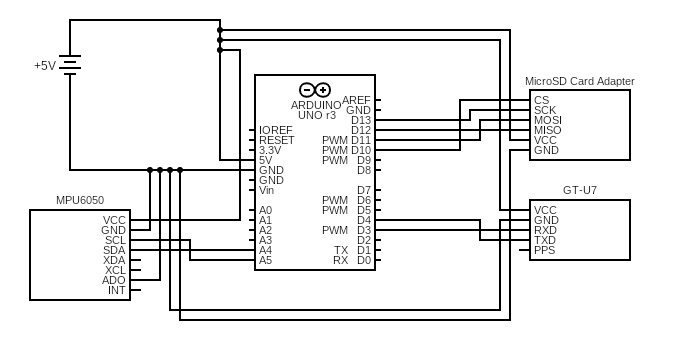
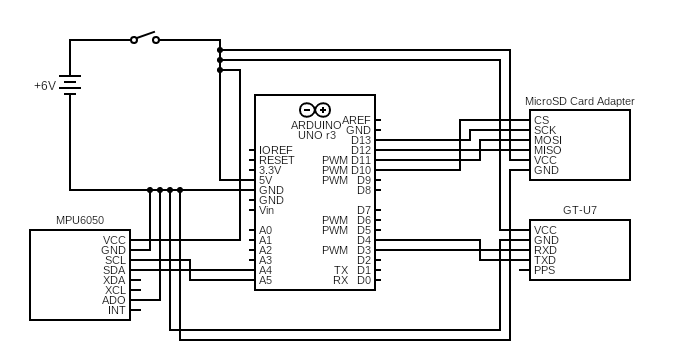
Updated README and changed diagrams

diff --git a/README.md b/README.md
@@ -1,3 +1,6 @@
 # MAST_DAQ
 A data aquisition system for the McMaster Aerospace Team
 Intended to gather altitude, accelleration, and GPS data and save it to a SD card
+Uses an Arduino Uno, GT-U7 GPS Module, MPU6050 Accelerometer, and a micro SD Card adapter
+Turning the system on will immediately create a new csv file on the SD card and start writing accelerometer and GPS data to it.
+.cddx file is used to design the circuit diagram at https://www.circuit-diagram.org/editor/
